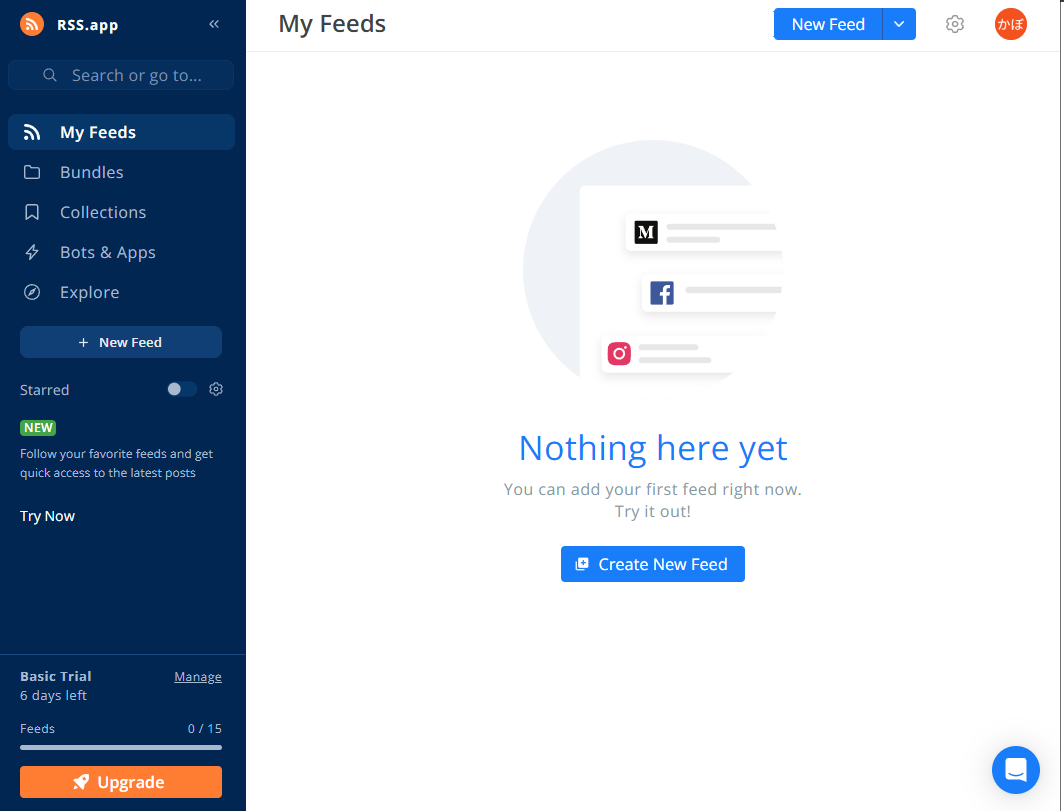
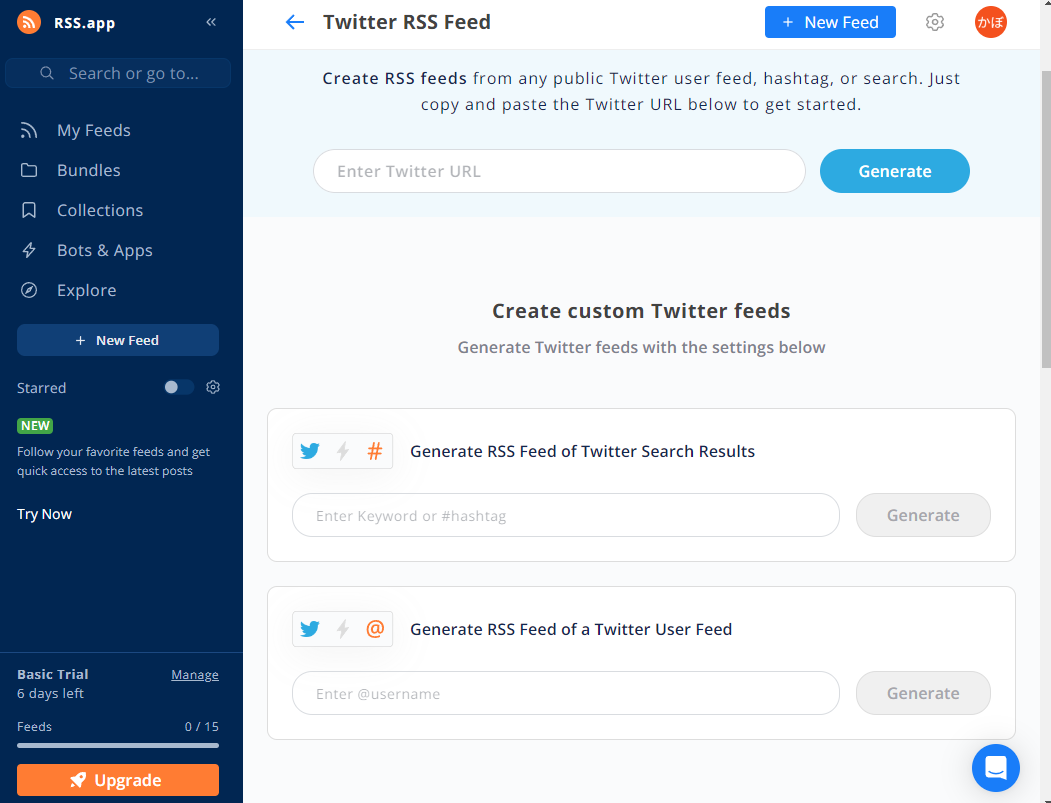
Description in readme, JSON added

diff --git a/readme.md b/readme.md
@@ -1,13 +1,67 @@
 # DiscordBotの作成方法（Xのポスト通知）
+Discordの任意のテキストチャンネルにBotとして特定ユーザのポストを送信するBotの作成方法です<br>
+言語化が苦手のためなるべくスクリーンショット等を用いて説明をしていますが、画像内の注釈等を入れるのが面倒だったため余計若肉買ったらごめんなさい。
+## 性能
+- ここで紹介するツールのRSSの更新が15分から30分くらい、Flowsの更新が15分周期のため大体1時間くらいの遅延があります
+- Discordの設定-詳細設定から開発者モードがオンになっているかを確認してください
 ## 使用ツール
+- Discord
 - RSS.app<https://rss.app/ja>
     - Xのポストを取得する際に使用するツール、外部ツールのためサービスが終了可能性あり
 - Flows<https://cloud.activepieces.com/sign-in>
     - RSS.appで取得したポストのデータに更新があった際にDiscordのbotを通じてメッセージを送信する等のフローを作成できるツール
+    - Botを簡単に作成できるためのフローを事前に用意してあるのでご使用ください。（Xポスト通知DiscordBot公開用.json）
 - Discord開発者ツール
-    - DiscordBotを作成する際に必要になるトークンを発行するために使用
+    - DiscordBotを作成する際に必要になるトークンを発行するために使用<https://discord.com/developers/applications?new_application=true>
 ## RSS.app
 - まずはログインまたはサインイン
 - 右上のNewFeedで新規作成→Twitter RSS Feed→少し下にGenerate RSS Feed of a Twitter User Feedがあるのでそこにポストの通知を呼びたいアカウントのIDを入力し、Generate
 ![alt text](image.png)
+- Generateに成功するとこのような画面になっているはずです。取得したいアカウントになっていればSortをLasd addedにしてSaveFeedをクリック
 ![alt text](image-1.png)
+- ここまでくるとXMLをコピーできるはずです。（現時点のバージョンだと画像の上部付近、時期によって変わるのでこれは探して下さい）これをコピーしたものをFlowsで使用します。
+![alt text](image-2.png)
+##　Flows
+- これもログインまたはサインイン
+- Import FlowにXポスト通知DiscordBot公開用.jsonを使用する
+- 1.New Item In Feed(RSS Feed)
+    - Trigger-New Item In Feed
+    - RSS Feed URL-RSS.appでコピーした.xmlのリンクを張り付け(赤の部分)![alt text](image-3.png)
+- 2.Code(ここはすでに入力されているはずなのでここのJSONファイルを使用した方は基本的には触らなくてよいはずです)
+    - +Add Itemをクリックし、Keyにlink,Valueに1.New Item In Feedを入力![alt text](image-4.png)
+    - Twitterのリンクを返却するコードを入力
+        - ここのコードのコメントアウトにも書かれていますが、なぜかinputs.link.linkでしかRSSのTwitterURL部分を取得できないときがあります。<br>
+        テスト段階で実行がうまくできていない場合は3行目を<br>
+        const rssInportUrl = inputs.link;→const rssInportUrl = inputs.link.link;<br>
+        に変更してみてください。
+    ```
+    export const code = async (inputs) => {
+    //取得したRSSのTwitterURL部分を取得(※inputs.link.linkにしないと取得できないケースあり)
+    const rssInportUrl = inputs.link;
+    //取得したリンクがTwitterのものであればリンクを返却
+    if (rssInportUrl.includes('https://twitter.com/')) {
+        return rssInportUrl;
+        //const twitterUrl = rssInportUrl.replace('https://twitter.com/', 'https://vxtwitter.com/');
+        //return twitterUrl;
+    } else {
+        return "The URL provided is incorrect or has not been retrieved.";
+    }};
+    ```
+
+- 3.Send Message Webhook
+    - Connection
+        - NewConnectionを押し、Nameは好きなように設定BotTokenにDiscord開発者ツールから取得したBot Tokenを張り付け
+        - Discord developer portalに入る→Applications→NewApplication→名前は自由でOKです![alt text](image-5.png)
+        - 作成出来たらこのような画面になるはずです。![alt text](image-6.png)
+        - 上記の画面が出ていたならBotタブ→TOKENのResetTokenをクリックしてパスワード認証を行うとBotTokenをコピーできるようになるはずなので貼り付け![alt text](image-7.png)
+    - Webhook URL
+        - 通知を出したいDiscordのテキストチャットの設定を開く→連携サービスのウェブフックを作成![alt text](image-8.png)
+        - 名前とアイコンを自由に変更してウェブフックURLをコピーして貼り付け
+    - Message
+        - Codeを選択
+- 実行確認
+    - ここまで出来たらTest flowをクリック、問題なければBotが何かを投稿しているはずです![alt text](image-9.png)
+    - 実行が出来ていたら上側にあるPublishをクリック（サンプルのフローのスクリーンショットなのでグレーになってますが実行できていたらクリック出来ます）![alt text](image-10.png)
+    - くわしく確認したい人、エラーが出た人向け
+        - 各フロー（1~3）にLoad dataやRetestが存在するはずなのでそれをクリックしてそれぞれのフローを確認する
+
